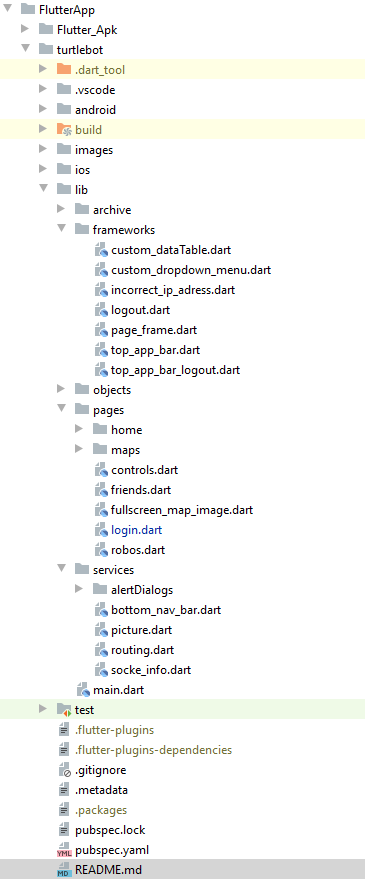
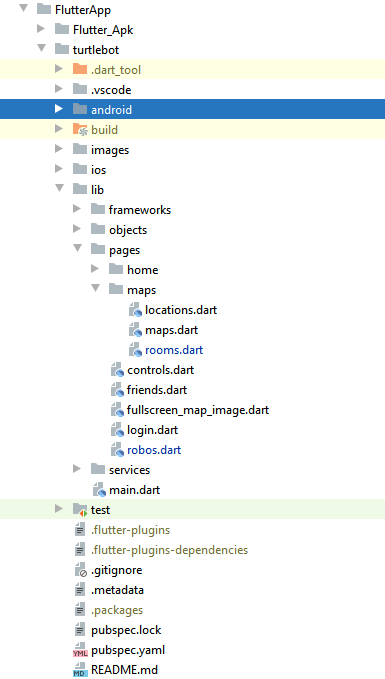
- added current App structure and some corrections in App docu

diff --git a/Dokumentation/DokumentationApp/FlutterDokuApp.md b/Dokumentation/DokumentationApp/FlutterDokuApp.md
@@ -216,9 +216,9 @@ die Reihenfholge in ChoosePageAndColor auch geändert werden!!
 
 ## 7.0 Funktionalität geblockt
 
-Da wir erst nicht mehr geschafft haben eine freie Roboterwahl und eine freie Raumwahl im Controller und über die Datenbank 
+Da wir es nicht mehr geschafft haben eine freie Roboterwahl und eine freie Raumwahl im Controller und über die Datenbank 
 zu implementieren sind einige Funktionalitäten in der App auskommentiert. Diese werden mit dem Stichwort "Funktionalität geblockt" betitelt im Quellcode.
-Falls diese Funktionalitäten noch umgesetzt wird kann die hierfür eingesetzte Statusmeldung wieder entfernt werden,
+Falls diese Funktionalitäten noch umgesetzt werden kann die hierfür eingesetzte Statusmeldung wieder entfernt werden,
 und die Logik auskommentiert werden. Also einfach in Flutter dieses Stichwort "Funktionalität geblockt" suchen dann findet ihr die Beiträge.
 
 Hier die Änderungen nochmal aufgelistet:
